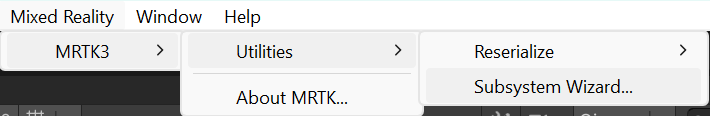
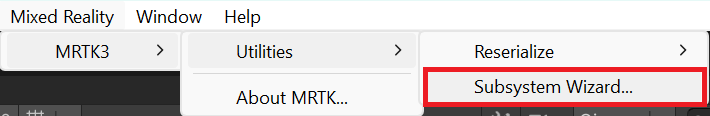
update / add images, start adding text

Changed region(s): [[0.5887, 0.569, 1.0, 0.931]]

diff --git a/mrtk-unity/mrtk3-tools/packages/tools/subsyswizard.md b/mrtk-unity/mrtk3-tools/packages/tools/subsyswizard.md
@@ -10,4 +10,72 @@ keywords: Unity, HoloLens, HoloLens 2, Mixed Reality, development, MRTK3, tools,
 
 # Subsystem Wizard &#8212; MRTK3
 
-Coming soon...
+Welcome to the Mixed Reality Toolkit Subsystem Wizard. This tool is used to extend the functionality of MRTK3 via a custom Unity XR Subsystem. This document describes the Subsystem Wizard, its UI and how to add your custom feature to MRTK3.
+
+> [!NOTE]
+> As a general rule, it is recommended to use subsystems to implement platform or provider abstractions.
+
+To use the Subsystem Wizard, you must first import the MRTK3 Tools package using the [Mixed Reality Feature Tool](todo link).
+
+## Getting Started
+
+To get started creating a new subsystem, please select the `Subsystem Wizard` item from the **MRTK3** > **Utilities** menu.
+
+![Launching the Subsystem Wizard](images/menuItem.png)
+
+todo
+
+![Specifiying Subsystem Names](images/subsysWizardStart.png)
+
+todo 
+
+### Organization name
+
+todo
+
+### Base class name
+
+todo
+
+### Adding a subsystem configuration
+
+todo
+
+## Preparing to generate
+
+![Specifiying Subsystem Names](images/subsysWizardPreGenerate.png)
+
+> [!NOTE]
+> The Subststem Wizard will not overwrite existing files. If you have previously generated and need to add a file, you can selectively disable one or more files. This can also be used to regenerate a previously deleted file.
+
+### Skip subsystem class
+
+todo
+
+### Skip subsystem interface
+
+todo
+
+### Skip subsystem base class
+
+todo
+
+### Skip subsystem descriptor
+
+todo
+
+## Next steps
+
+![Generation complete](images/subsysWizardComplete.png)
+
+todo
+
+### Add your code
+
+todo
+
+### Enable the subsystem
+
+todo
+
+![Enabling new subsystem](images/enableNewSubsystem.png)
